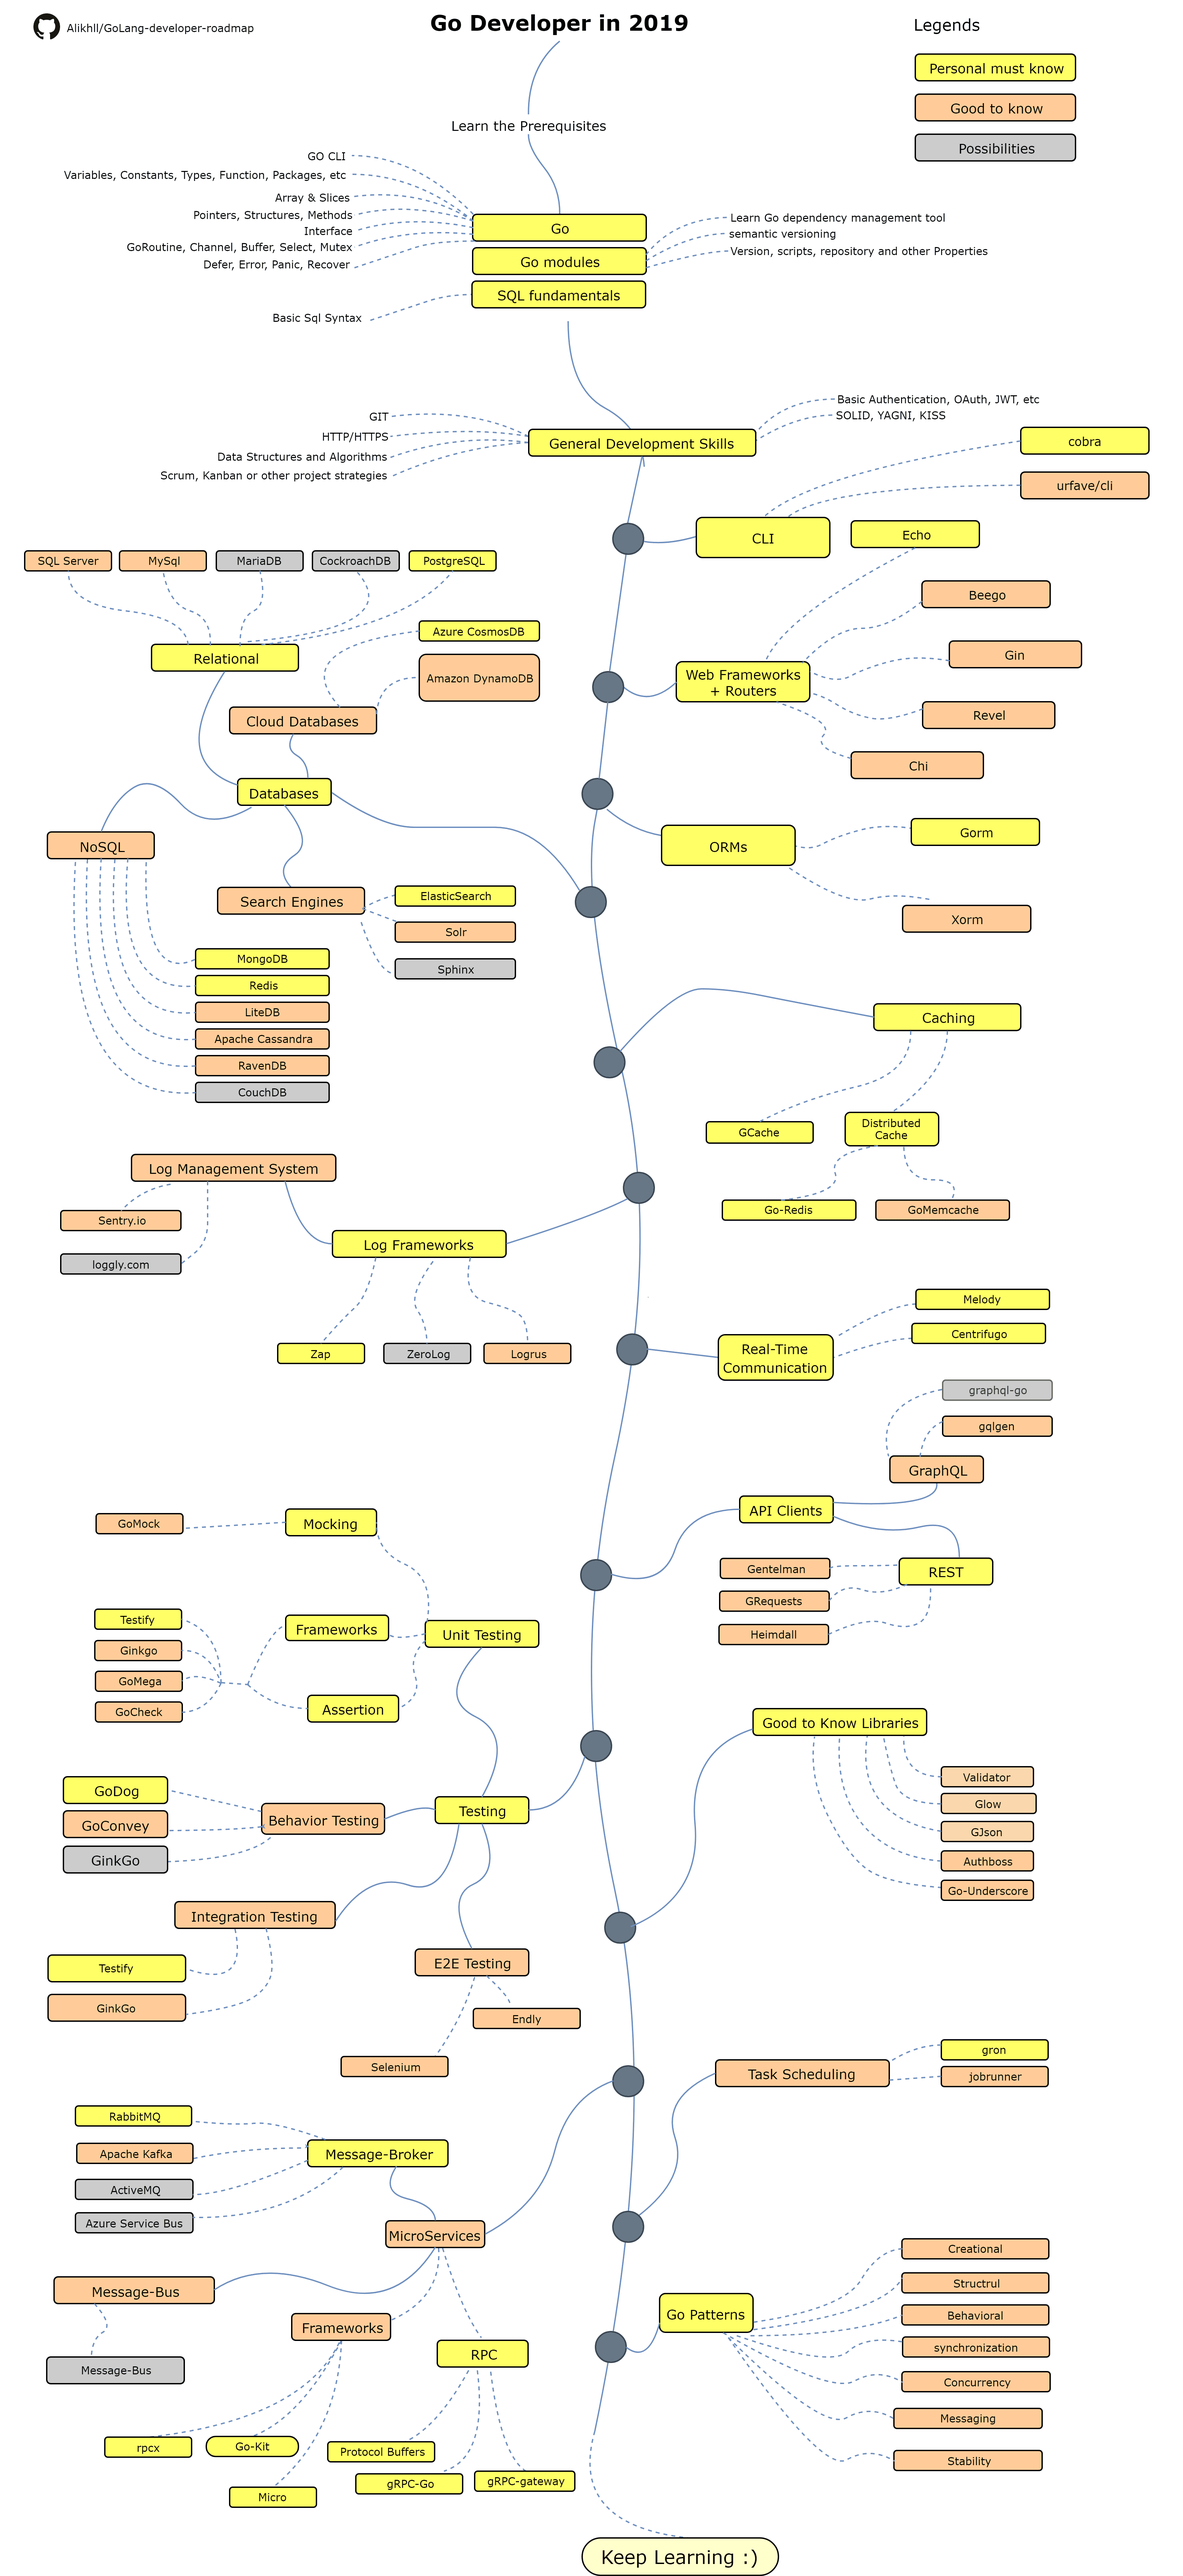
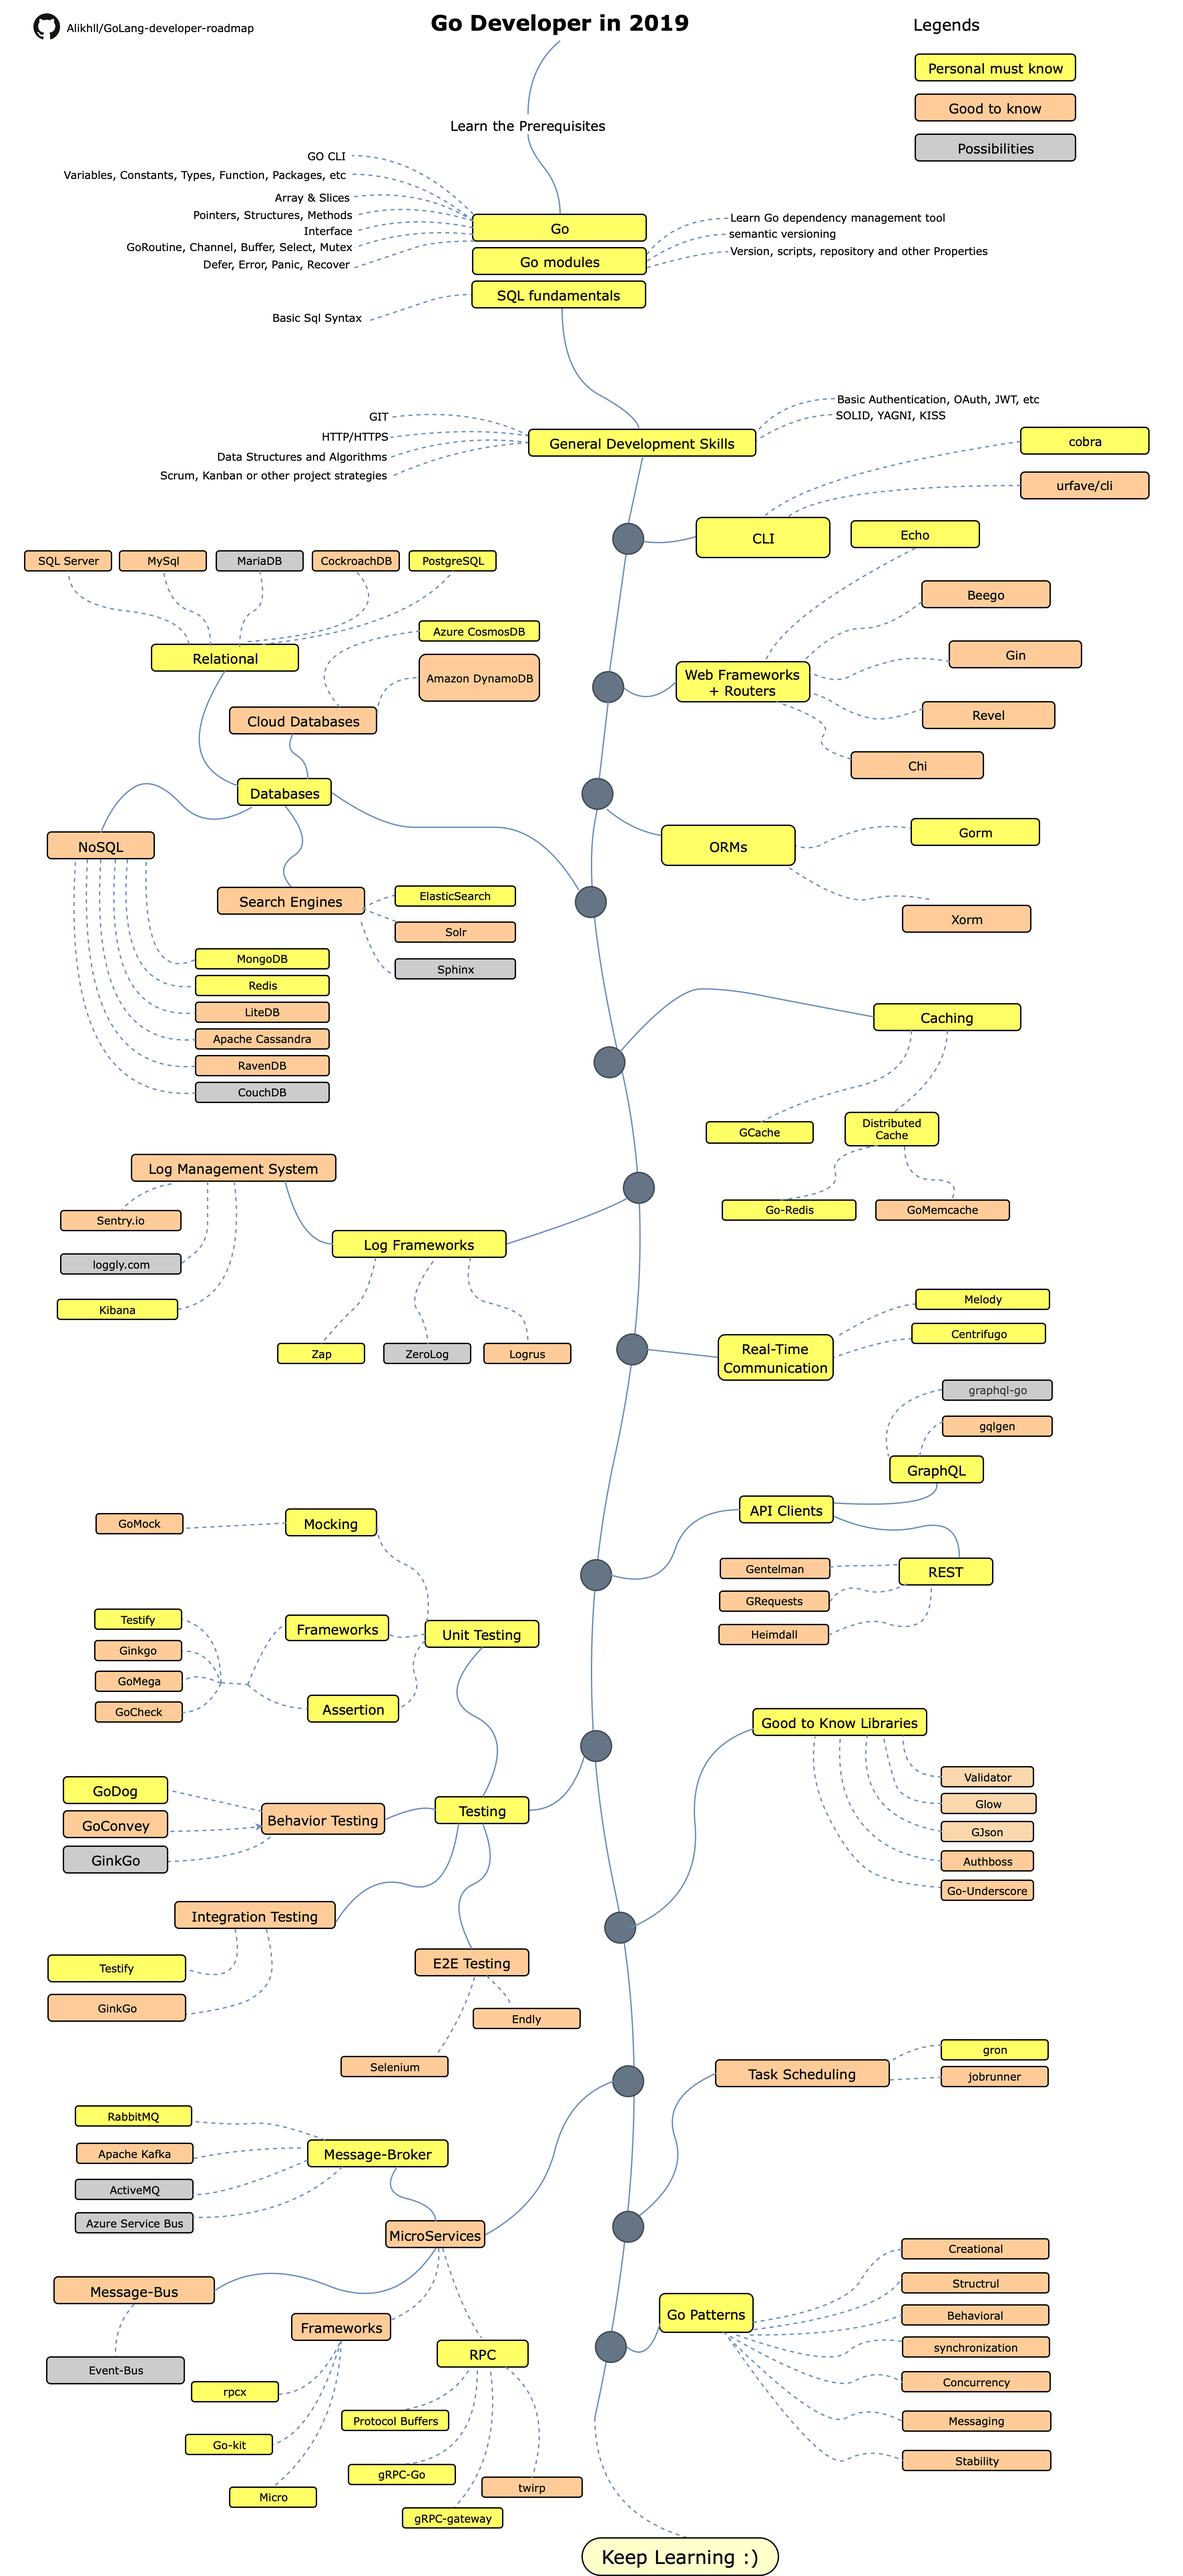
adds recent rpc framework && minor tweaks

diff --git a/ReadMe.md b/ReadMe.md
@@ -91,6 +91,7 @@ If you like or are using this project to learn or start your solution, please gi
    2. Log Management System
       - [Sentry.io](http://sentry.io)
       - [Loggly.com](https://loggly.com)
+      - [Kibana](https://www.elastic.co/products/kibana)
 
 9. Real-Time Communication
    1. [Socket.IO](https://socket.io/)
@@ -104,7 +105,6 @@ If you like or are using this project to learn or start your solution, please gi
     2. [GraphQL](https://graphql.org/)
        - [gqlgen](https://github.com/99designs/gqlgen)
        - [graphql-go](https://github.com/graph-gophers/graphql-go)
-    
 
 11. Good to Know
 
@@ -150,6 +150,7 @@ If you like or are using this project to learn or start your solution, please gi
          - [Protocol Buffers](https://github.com/protocolbuffers/protobuf)
          - [gRPC-Go](https://github.com/grpc/grpc-go)
          - [gRPC-Gateway](https://github.com/grpc-ecosystem/grpc-gateway)
+         - [Twirp](https://github.com/twitchtv/twirp)
 
 15. [Go-Patterns](https://github.com/tmrts/go-patterns)
 
